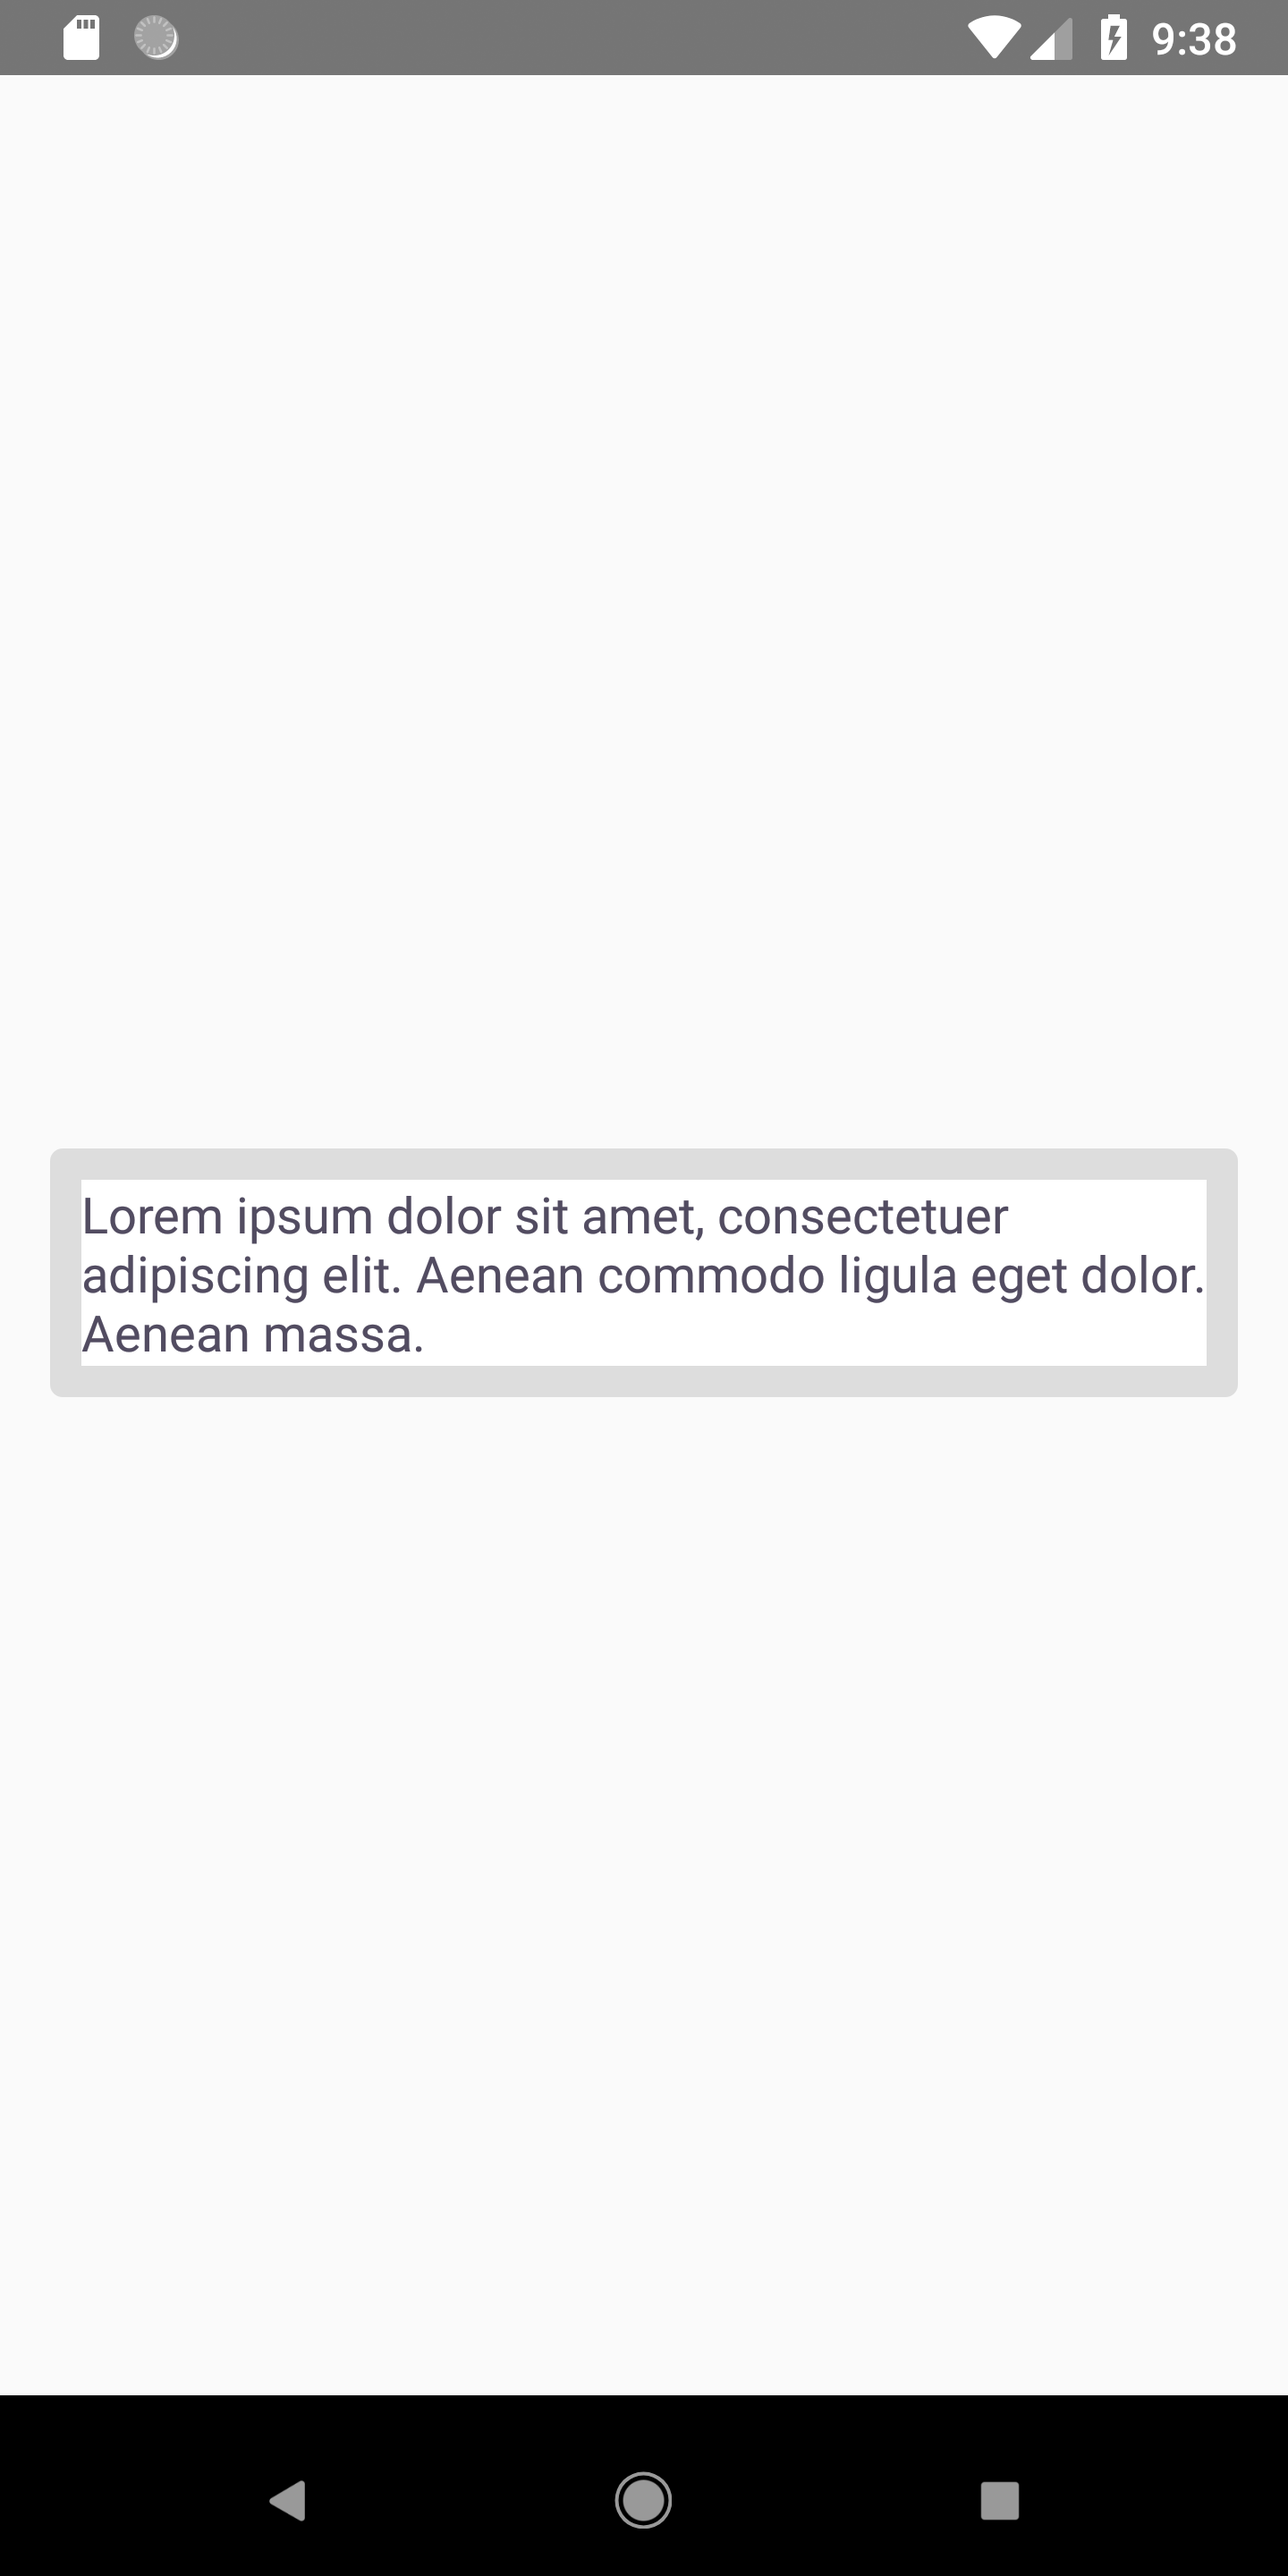
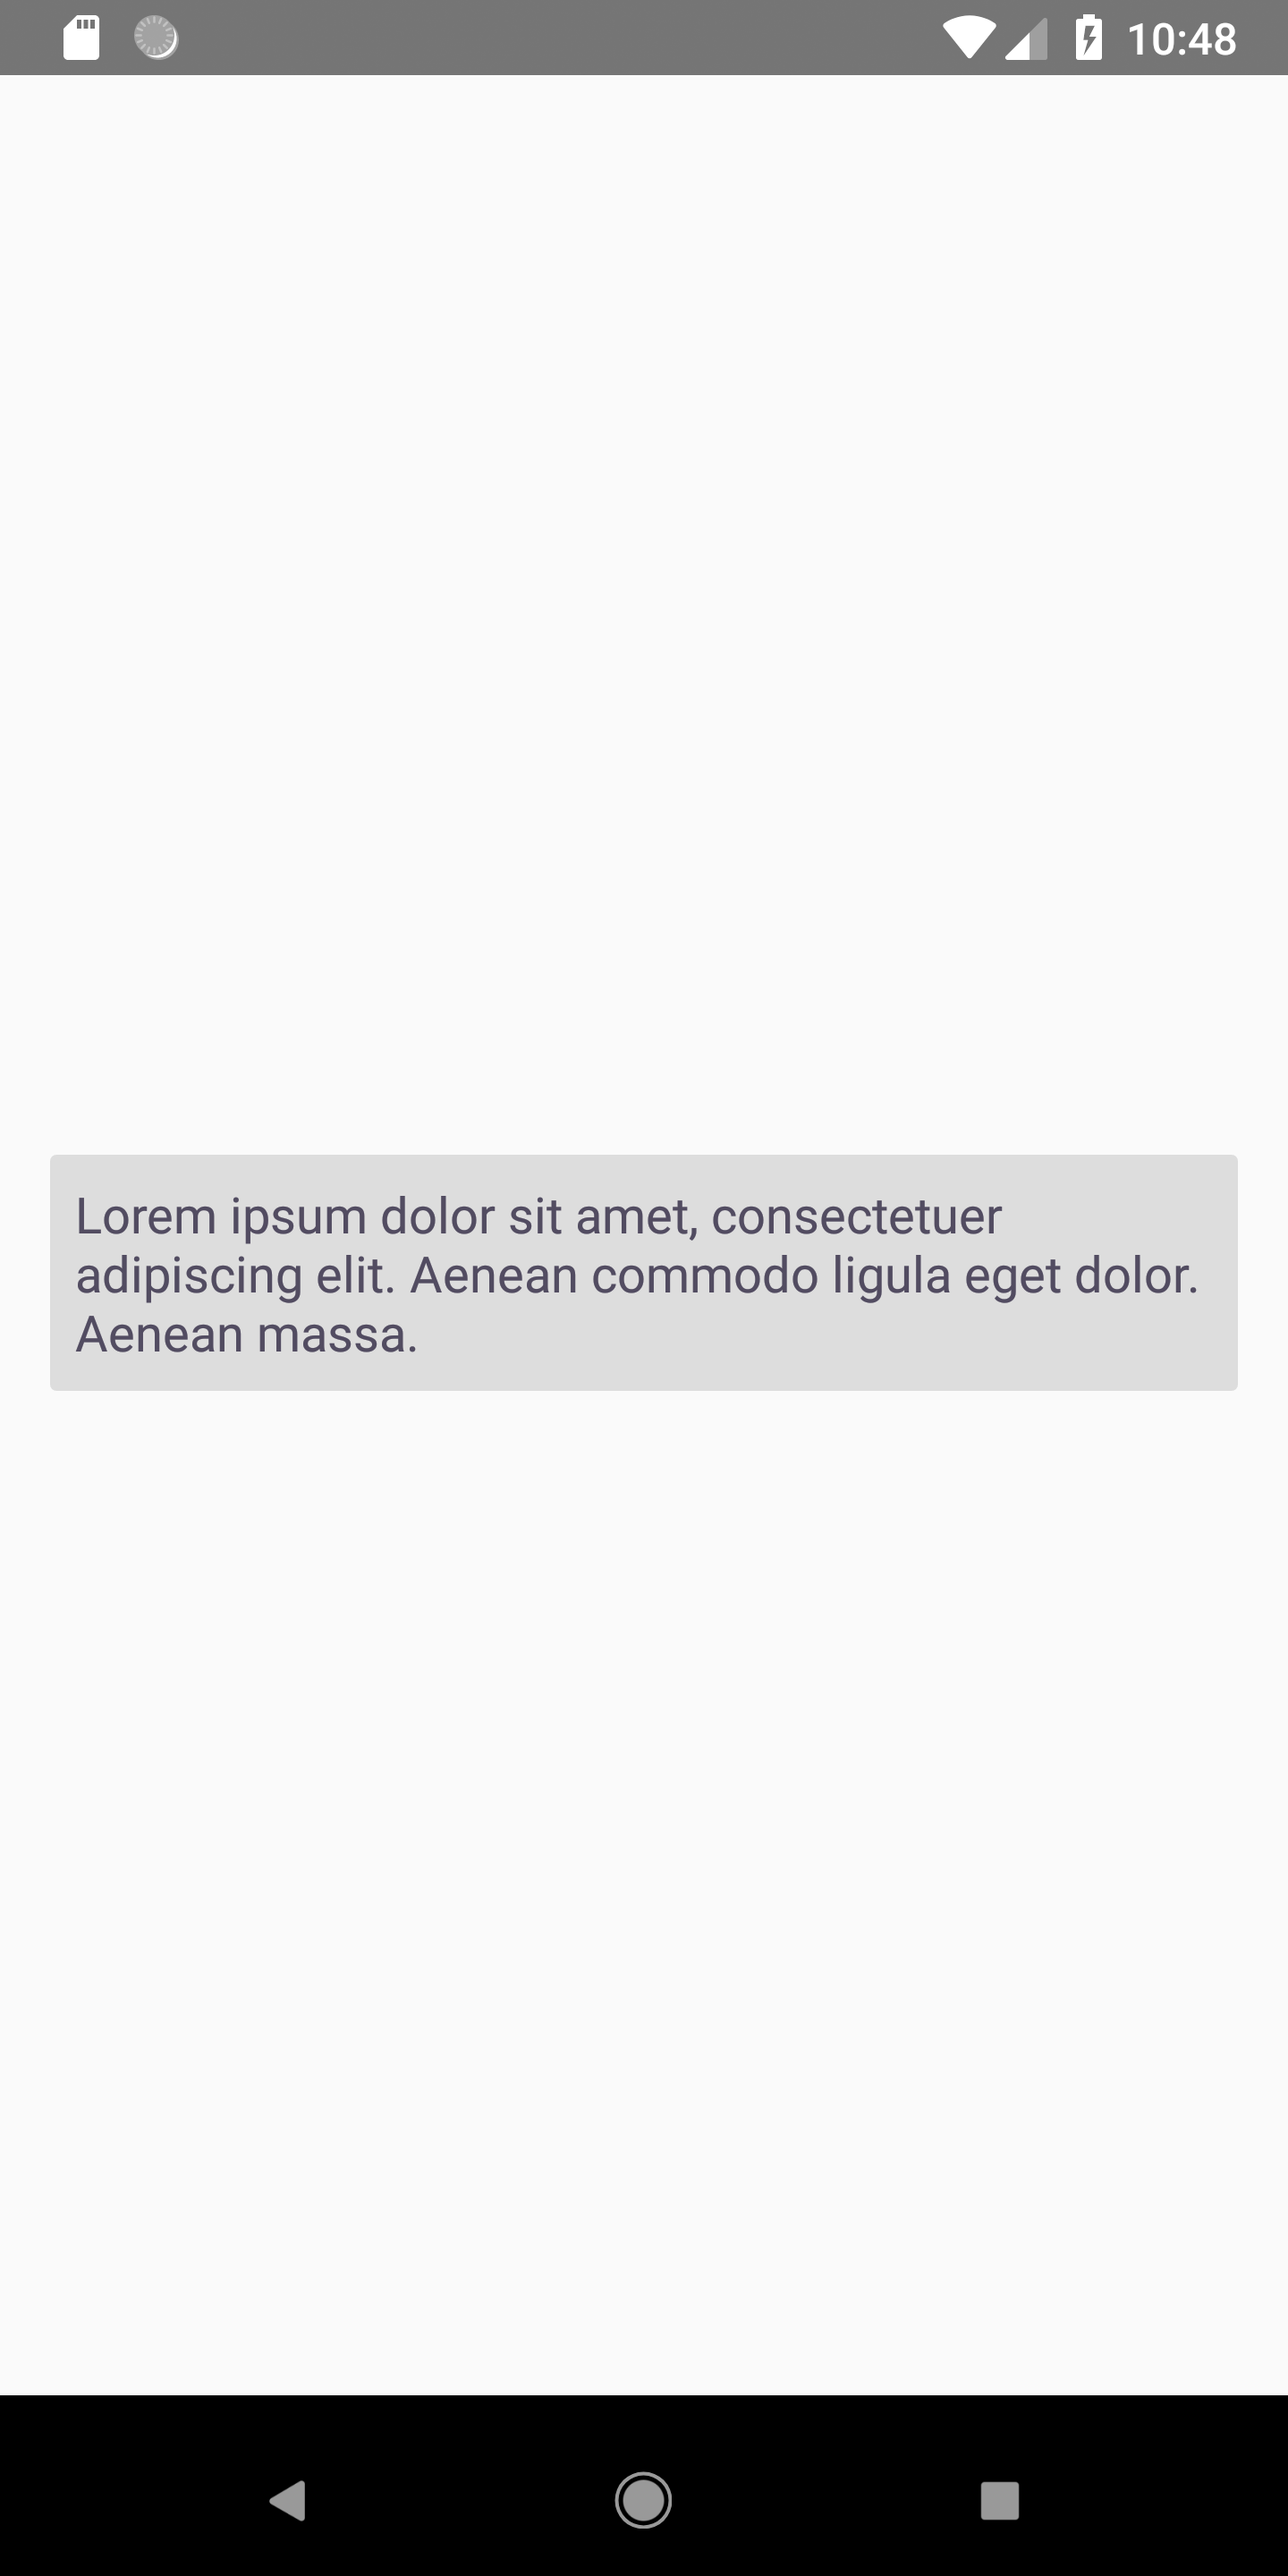
[BPK-1411] update docs, story and screenshot

Changed region(s): [[0.0625, 0.4375, 0.9375, 0.5312], [0.7188, 0.0, 0.9375, 0.0312]]

diff --git a/native/packages/react-native-bpk-component-touchable-native-feedback/stories.js b/native/packages/react-native-bpk-component-touchable-native-feedback/stories.js
@@ -20,24 +20,22 @@ import React from 'react';
 import { View, StyleSheet } from 'react-native';
 import BpkText from 'react-native-bpk-component-text';
 import { storiesOf, action } from '@storybook/react-native';
-import CenterDecorator from '../../storybook/CenterDecorator';
+import { borderRadiusSm, spacingMd } from 'bpk-tokens/tokens/base.react.native';
 
+import CenterDecorator from '../../storybook/CenterDecorator';
 import BpkTouchableNativeFeedback from './index';
 
 const styles = StyleSheet.create({
-  text: {
-    backgroundColor: 'white',
-  },
   view: {
-    padding: 10,
+    padding: spacingMd,
   },
   wrappingView: {
-    borderRadius: 4,
+    borderRadius: borderRadiusSm,
   },
 });
 
 const textContent = (
-  <BpkText style={styles.text}>
+  <BpkText>
     Lorem ipsum dolor sit amet, consectetuer adipiscing elit. Aenean commodo
     ligula eget dolor. Aenean massa.
   </BpkText>
@@ -49,14 +47,6 @@ const onPress = action('Touchable native feedback press');
 
 storiesOf('react-native-bpk-component-touchable-native-feedback', module)
   .addDecorator(CenterDecorator)
-  .add('docs:text-content', () => (
-    <BpkTouchableNativeFeedback
-      onPress={onPress}
-      accessibilityLabel="Example touchable native feedback"
-    >
-      {textContent}
-    </BpkTouchableNativeFeedback>
-  ))
   .add('docs:view-content', () => (
     <BpkTouchableNativeFeedback
       onPress={onPress}
